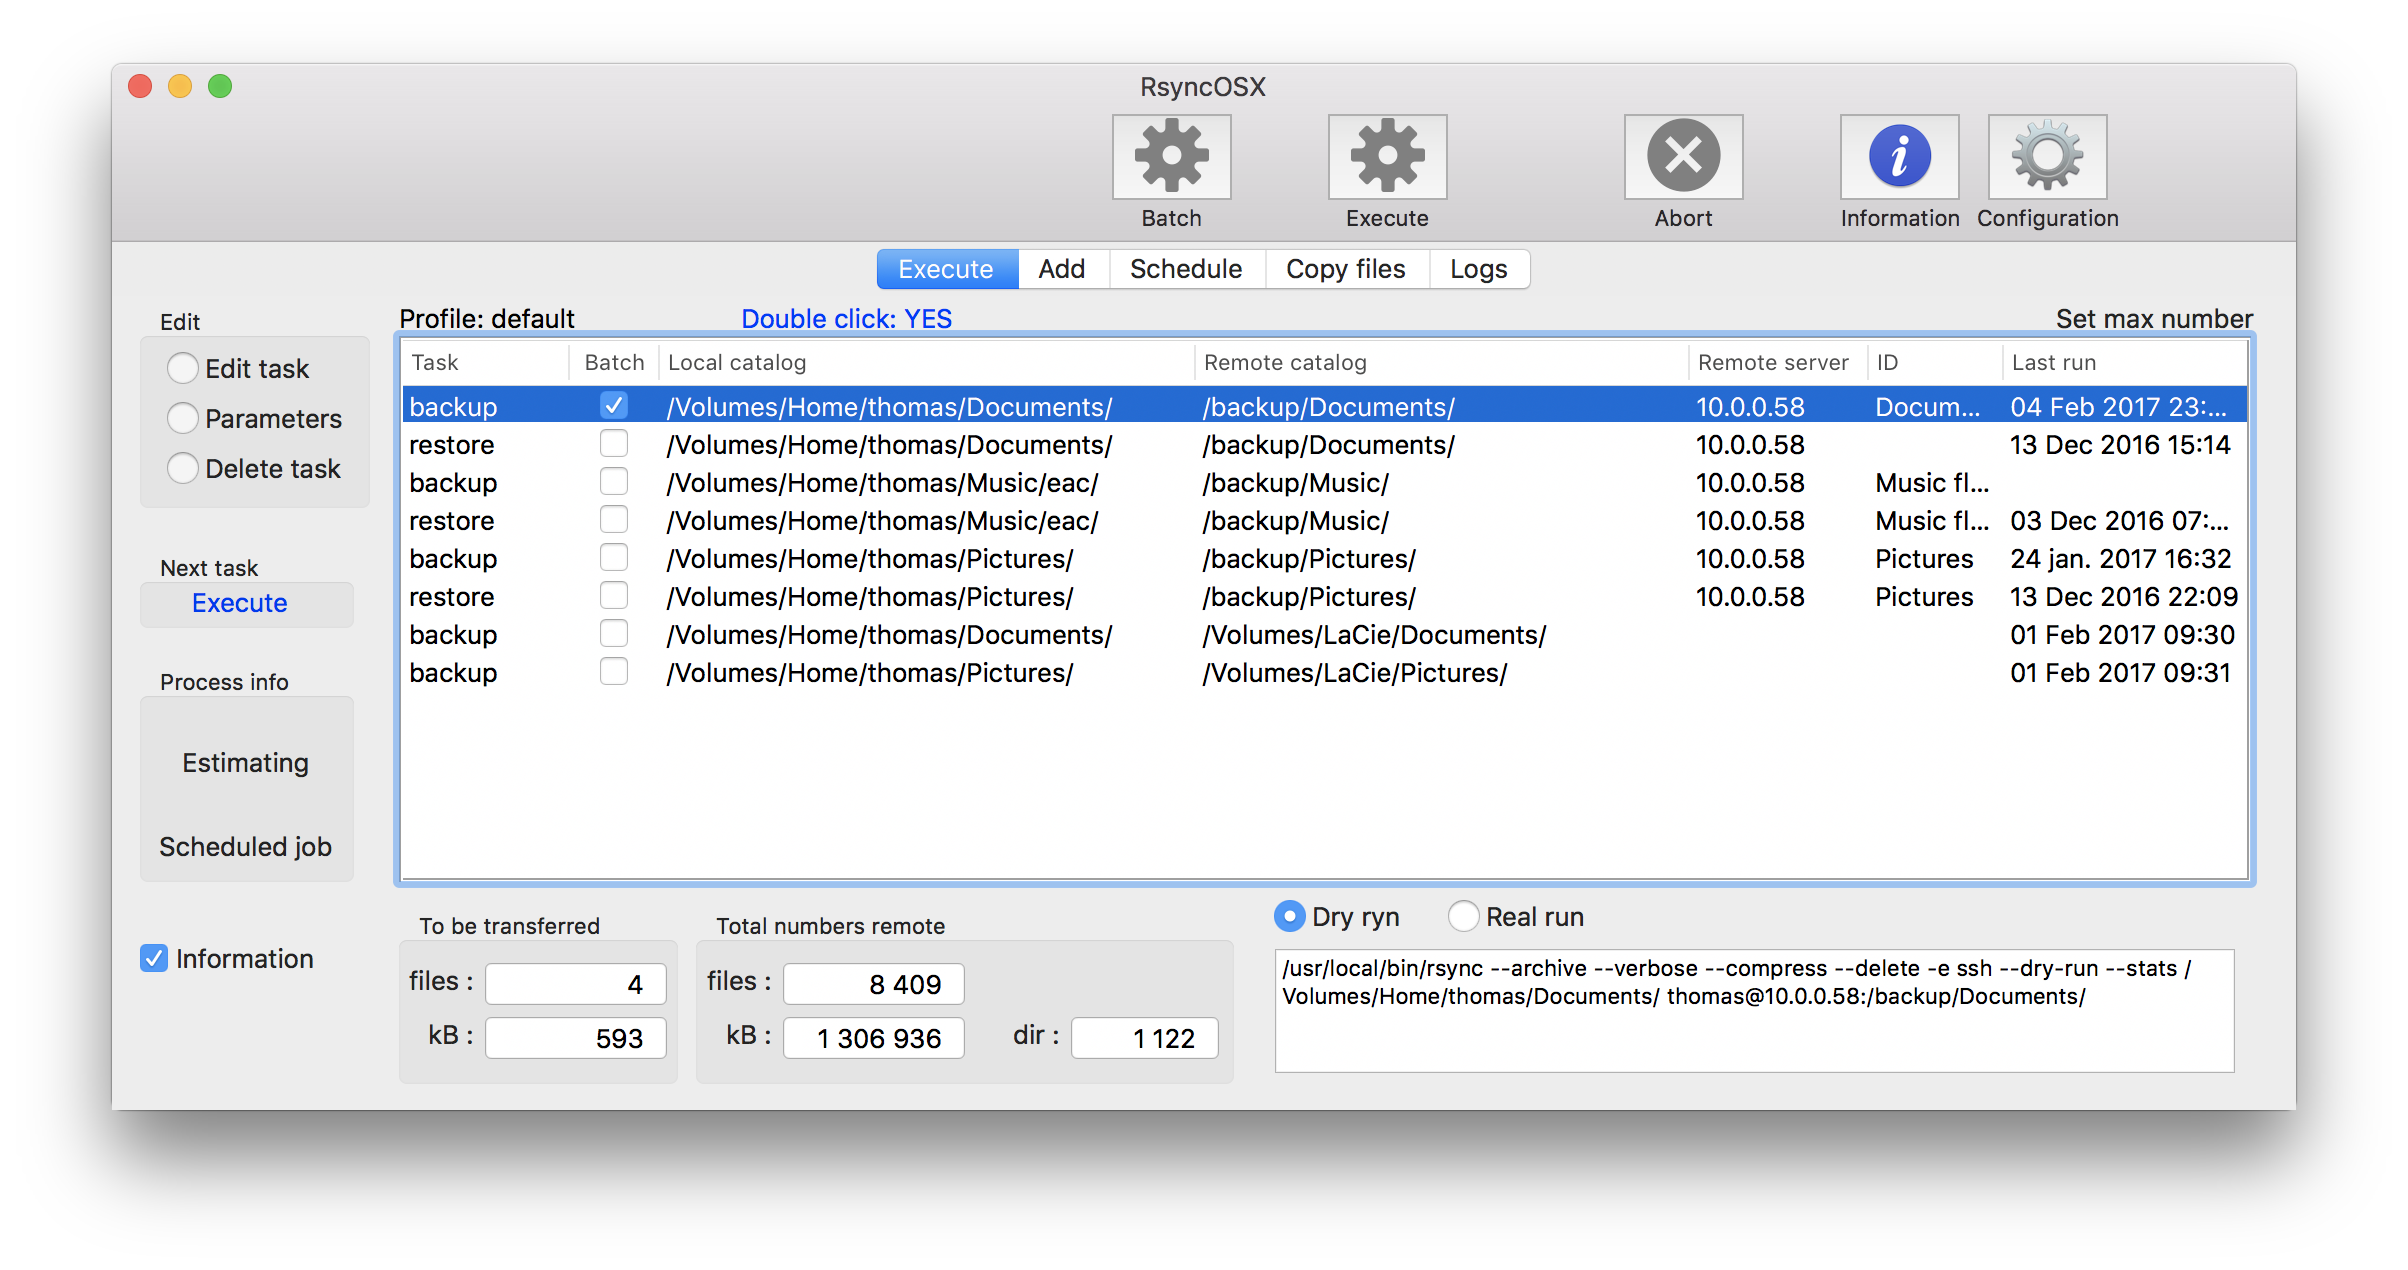
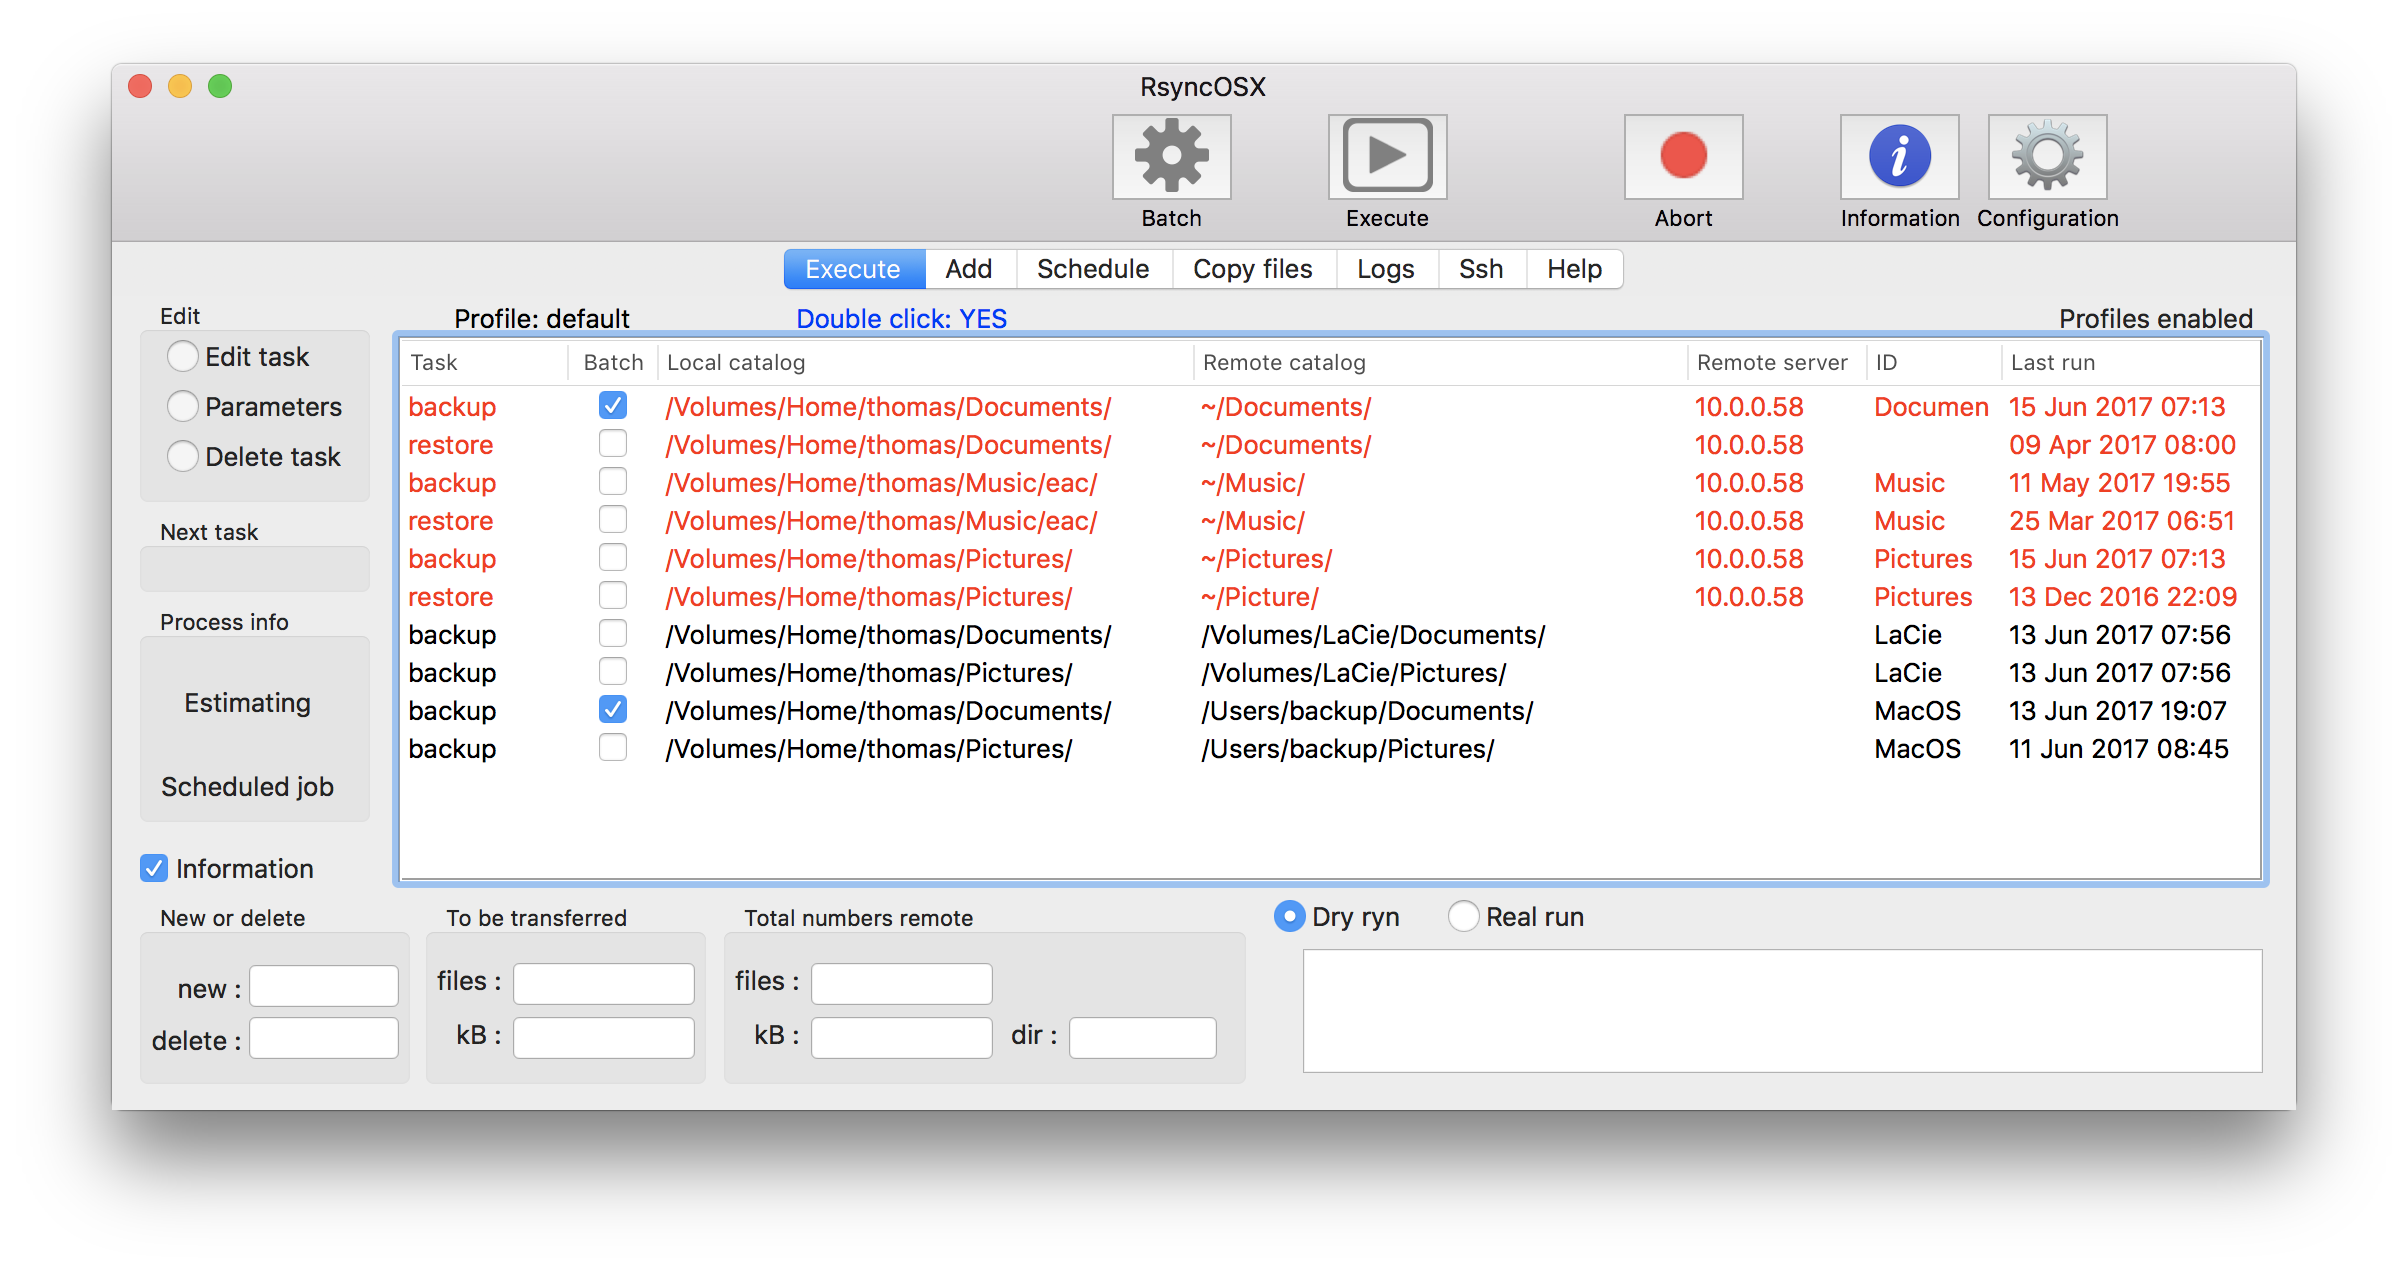
Updates

diff --git a/docs/Intro.md b/docs/Intro.md
@@ -7,6 +7,12 @@ There are two labels on top of table : **Profile** and **Double click: YES**. Co
 
 **Important**: Information about *new:* and *delete:* files and remote number of directories are only available if version 3.x of rsync is used.
 
+The red rows indicates no connection to remote server. RsyncOSX does a **background** check (informal only) for remote servers at startup. The server `10.0.0.58` is a local NAS server and if RsyncOSX does not find server outside my home.
+
+![Main view](screenshots/master/main.png)
+
+A double click on a row executes the task. A drop down view presents result of task after rsync terminates. A backup is normally a two step task, first a `--dry-run` and then the real task. Tasks might be marked for batch for execution in one go (all tasks marked for batch).
+
 ![Main view](screenshots/master/main1.png)
 
 
